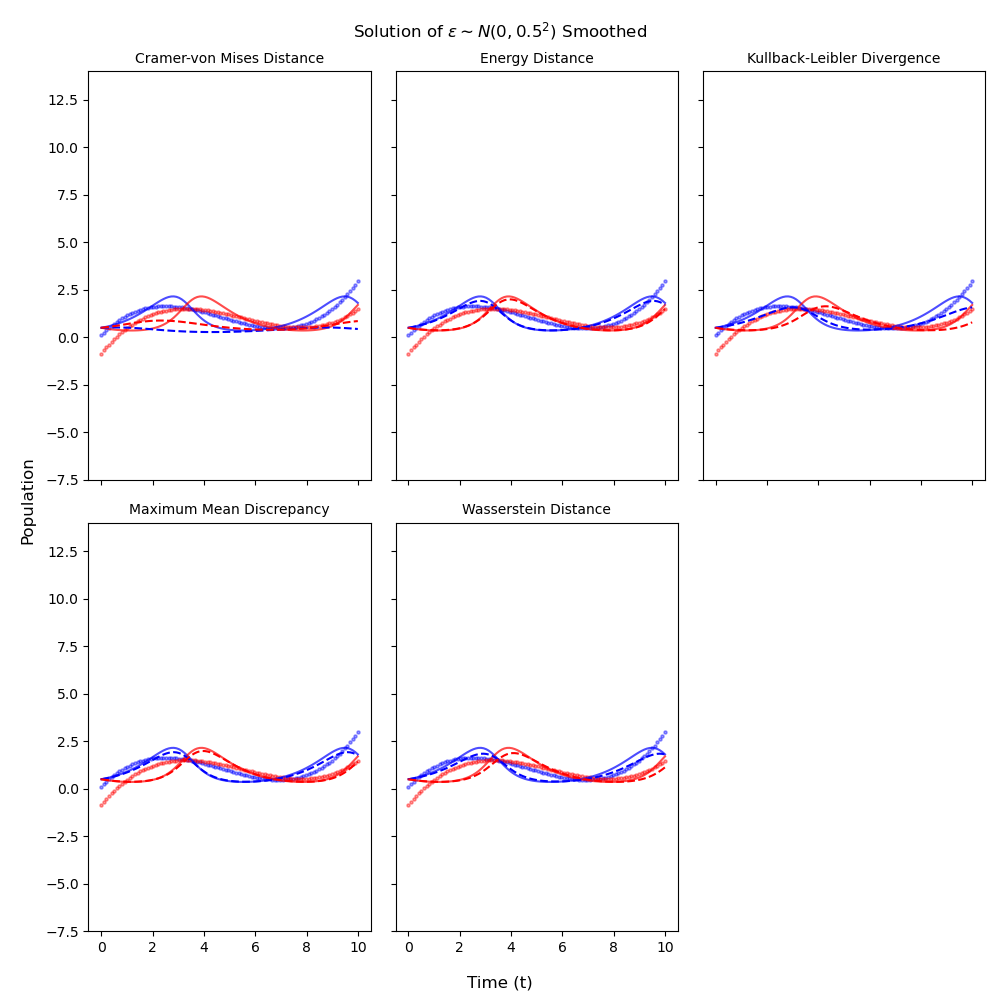
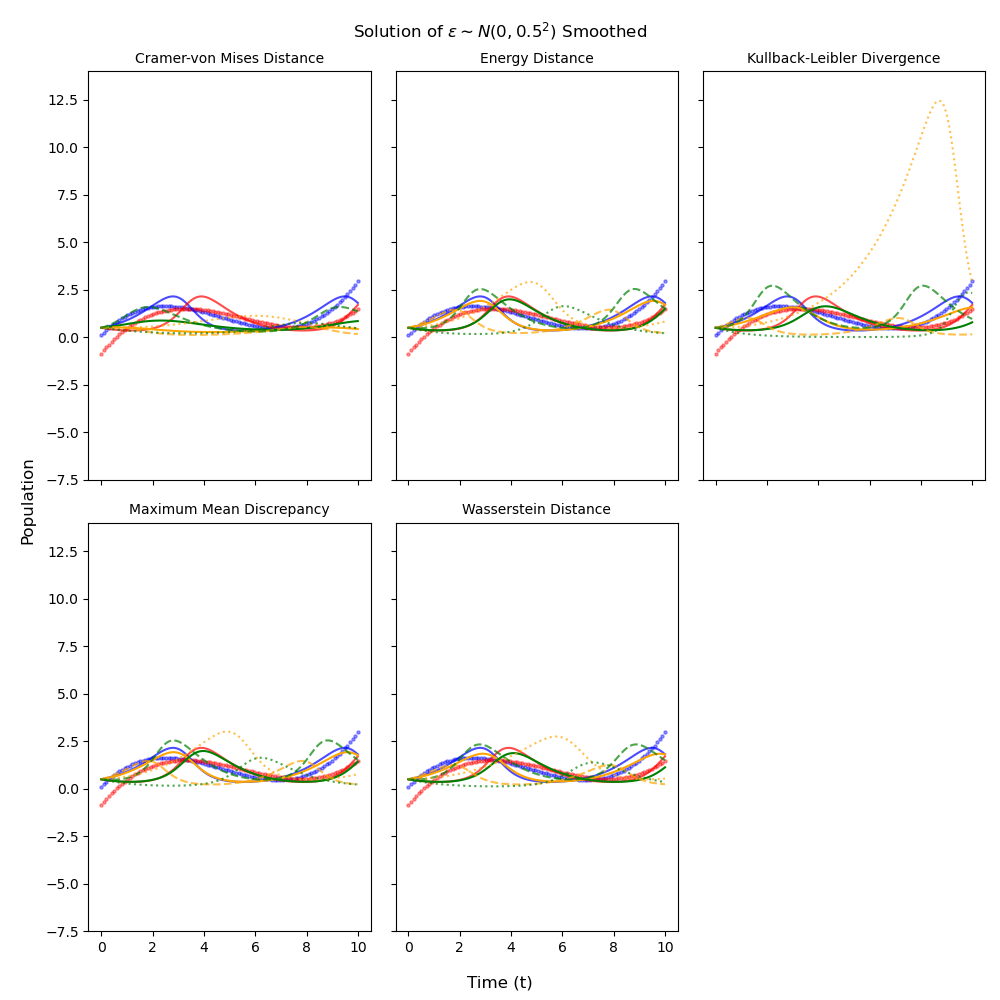
updated solution plots to include lower and upper bounds using CI.

diff --git a/lotka_volterra/all_solution_plot.py b/lotka_volterra/all_solution_plot.py
@@ -19,11 +19,16 @@ t = np.linspace(0, 10, 100)
 true_curve = np.load(os.path.join(OBSERVED_PATH, "n0_no_smoothing/n0_no_smoothing.npy"))
 summary = pd.read_csv(DATAFRAME_PATH)
 relevantss = summary[(summary['quantile'] == "0.1%") & (summary["summary_statistic"] == "Median")].reset_index(drop=True) # Want posterior median of 0.1% quantile
+upper_bound = summary[(summary['quantile'] == "0.1%") & (summary["summary_statistic"] == "Upper Bound")].reset_index(drop=True) # Want the posterior upper and lower bound of the 0.1% quantile
+lower_bound = summary[(summary['quantile'] == "0.1%") & (summary["summary_statistic"] == "Lower Bound")].reset_index(drop=True)
 
 j = 0
 for model in os.listdir(OBSERVED_PATH):
     # Identify relevant rows in dataframe
     current = relevantss[relevantss["model"] == model].reset_index(drop=True)
+    current_upper = upper_bound[upper_bound["model"] == model].reset_index(drop=True)
+    current_lower = lower_bound[lower_bound["model"] == model].reset_index(drop=True)
+
     # Load observed data
     observed = np.load(os.path.join(OBSERVED_PATH, model+"/"+model+".npy"))
 
@@ -36,21 +41,31 @@ for model in os.listdir(OBSERVED_PATH):
         params = current[metric]
         alpha = params[0]
         beta = params[1]
+
+        alpha_upper, alpha_lower = current_upper[metric][0], current_lower[metric][0]
+        beta_upper, beta_lower = current_upper[metric][1], current_lower[metric][1]
+
         S0 = (0.5, 0.5) # Initial Conditions
         sol = odeint(dUdt, S0, t, args=(alpha, beta)) # Solving the ODEs
+        sol_upper = odeint(dUdt, S0, t, args=(alpha_upper, beta_upper))
+        sol_lower = odeint(dUdt, S0, t, args=(alpha_lower, beta_lower))
         ax[i].scatter(t, observed[:,0], s=5, c="blue", label="Observed Prey", alpha=0.4)
         ax[i].scatter(t, observed[:,1], s=5, c="red", label="Observed Predator", alpha=0.4)
         ax[i].plot(t, true_curve[:,0], c="blue", label="True Prey", alpha=0.7)
         ax[i].plot(t, true_curve[:,1], c="red", label="True Predator", alpha=0.7)
         ax[i].set_title(metric, fontsize=10)
-        ax[i].plot(t, sol[:,0], c="blue", linestyle = "--", label="Simulated Prey")
-        ax[i].plot(t, sol[:,1], c="red", linestyle = "--", label="Simulated Predator")
+        ax[i].plot(t, sol[:,0], c="orange", label="Simulated Prey")
+        ax[i].plot(t, sol[:,1], c="green", label="Simulated Predator")
+        ax[i].plot(t, sol_upper[:,0], c="orange", linestyle = "--", label="Simulated Prey w/Upper Bound", alpha=0.7)
+        ax[i].plot(t, sol_upper[:,1], c="green", linestyle = "--", label="Simulated Predator w/Upper Bound", alpha=0.7)
+        ax[i].plot(t, sol_lower[:,0], c="orange", linestyle = ":", label="Simulated Prey w/Lower Bound", alpha=0.7)
+        ax[i].plot(t, sol_lower[:,1], c="green", linestyle = ":", label="Simulated Predator w/Lower Bound", alpha=0.7)
         ax[i].set_ylim(-7.5, 14)
         
 
     if j == 6:
         handles, labels = axes[0, 0].get_legend_handles_labels()
-        fig.legend(handles, labels, loc='center left', bbox_to_anchor=(0.7, 0.3))
+        fig.legend(handles, labels, loc='center left', bbox_to_anchor=(0.68, 0.3))
 
     if NOISE[j] == "linear":
         title = "Solution of $\\varepsilon\\sim N(0, t^2)$"
